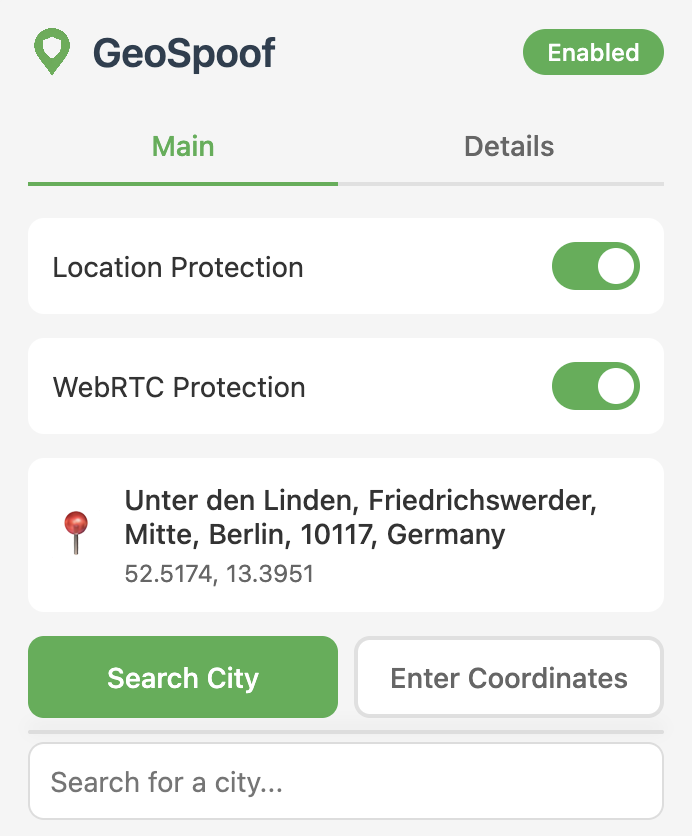
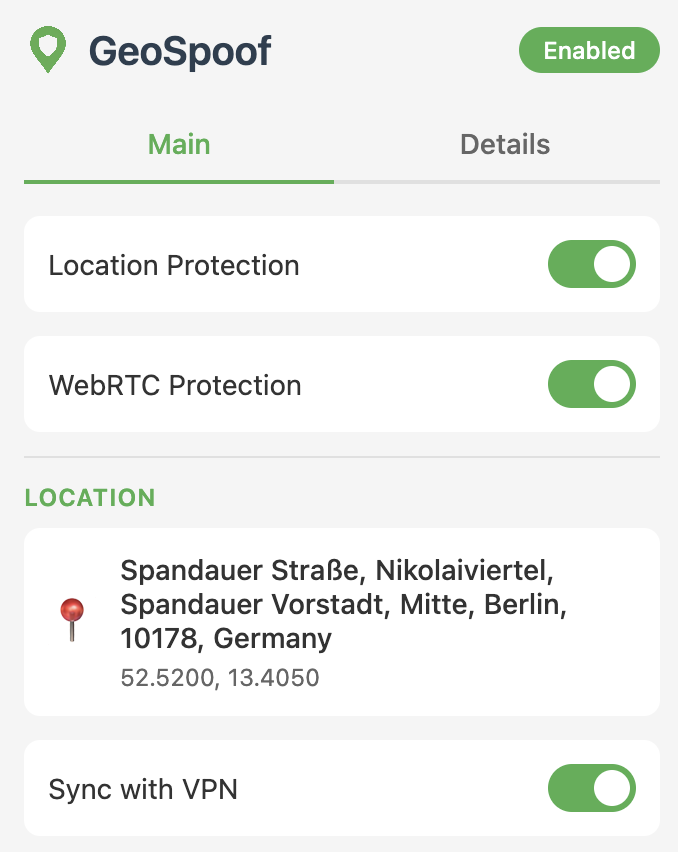
Update screenshots to match new sync with vpn feature

diff --git a/README.md b/README.md
@@ -6,7 +6,7 @@ Install: [Firefox Add-ons Store](https://addons.mozilla.org/en-US/firefox/addon/
 
 <p>
   <img src="assets/screenshot1.png" alt="GeoSpoof main view" width="350"  />
-  <img src="assets/screenshot2.png" alt="GeoSpoof details view" width="350"  />
+  <img src="assets/screenshot3.png" alt="GeoSpoof details view" width="350"  />
 </p>
 
 ## Why Use GeoSpoof?
@@ -106,9 +106,9 @@ See [USER_GUIDE.md](USER_GUIDE.md) for details.
 | [Nominatim](https://nominatim.org/) (OpenStreetMap)              | City search, reverse geocoding | Search query or coordinates                                            |
 | [browser-geo-tz](https://github.com/kevmo314/browser-geo-tz) CDN | Timezone resolution            | HTTPS range requests for boundary data chunks (coordinates stay local) |
 | [ipify](https://www.ipify.org/)                                  | VPN sync enabled               | HTTPS request to detect your public IP                                 |
-| [ipapi.co](https://ipapi.co/)                                    | VPN sync enabled               | Your public IP (to geolocate VPN exit region)                          |
+| [FreeIPAPI](https://freeipapi.com/)                              | VPN sync enabled               | Your public IP (to geolocate VPN exit region)                          |
 
-> **VPN Sync privacy note:** When you enable "Sync with VPN," your public IP is sent to `api.ipify.org` and `ipapi.co` over HTTPS to determine your VPN exit region. Your IP is never saved to disk — it's held only in memory and cleared when you disable VPN sync. See [PRIVACY_POLICY.md](PRIVACY_POLICY.md) for full details.
+> **VPN Sync privacy note:** When you enable "Sync with VPN," your public IP is sent to `api.ipify.org` and `freeipapi.com` over HTTPS to determine your VPN exit region. Your IP is never saved to disk — it's held only in memory and cleared when you disable VPN sync. See [PRIVACY_POLICY.md](PRIVACY_POLICY.md) for full details.
 
 No data is sent to the extension developer. See [PRIVACY_POLICY.md](PRIVACY_POLICY.md).
 

diff --git a/PRIVACY_POLICY.md b/PRIVACY_POLICY.md
@@ -37,13 +37,13 @@ When you use certain features, the extension communicates with external services
 **Purpose:** To find location coordinates or city names
 **Privacy Policy:** [OpenStreetMap Privacy Policy](https://wiki.osmfoundation.org/wiki/Privacy_Policy)
 
-### 2. VPN Sync Services (ipify and ipapi.co)
+### 2. VPN Sync Services (ipify and FreeIPAPI)
 
 **When:** Only when you explicitly enable the "Sync with VPN" feature or click the "Re-sync" button in the extension popup. This never happens automatically unless you have previously enabled VPN sync mode.
 **Data Sent:** Your public IP address is sent to two external services:
 
 - **[ipify](https://www.ipify.org/)** (`api.ipify.org`): Detects your current public IP address. No data is sent to this service other than the HTTPS request itself; it returns your public-facing IP.
-- **[ipapi.co](https://ipapi.co/)** (`ipapi.co`): Receives your public IP address and returns approximate geographic coordinates (latitude, longitude), city, and country for that IP.
+- **[FreeIPAPI](https://freeipapi.com/)** (`freeipapi.com`): Receives your public IP address and returns approximate geographic coordinates (latitude, longitude), city, and country for that IP.
 
 **Purpose:** To determine the geographic location of your VPN exit server so the extension can set your spoofed location to match your VPN region.
 **Privacy Safeguards:**
